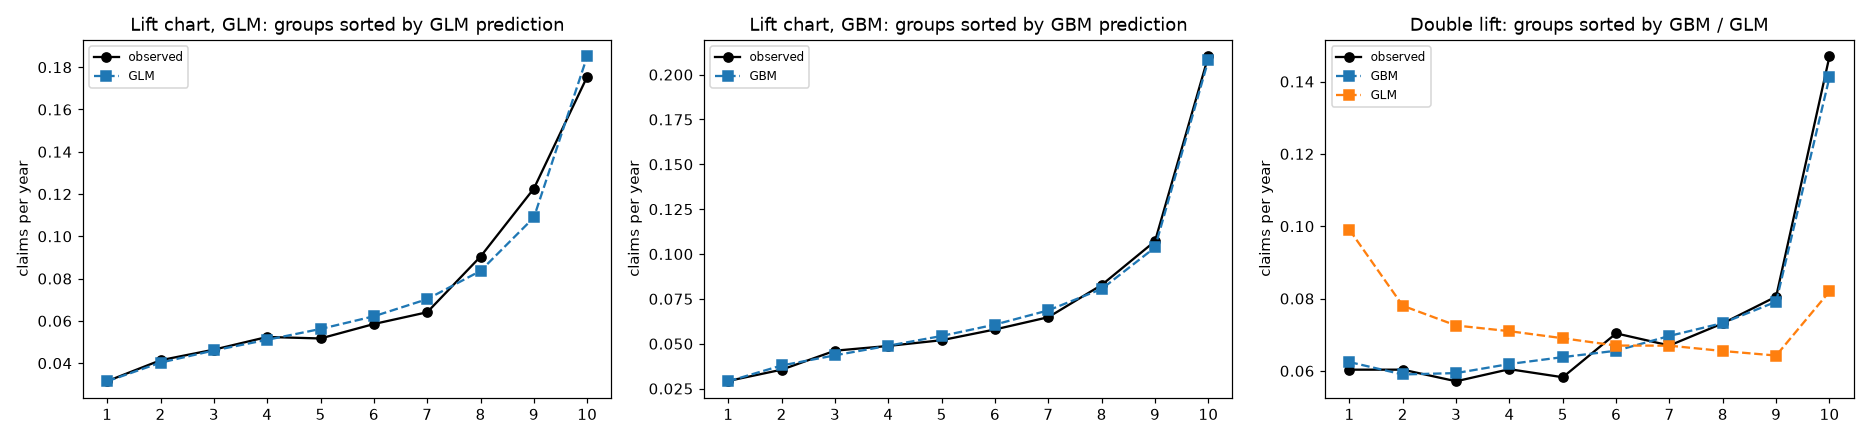
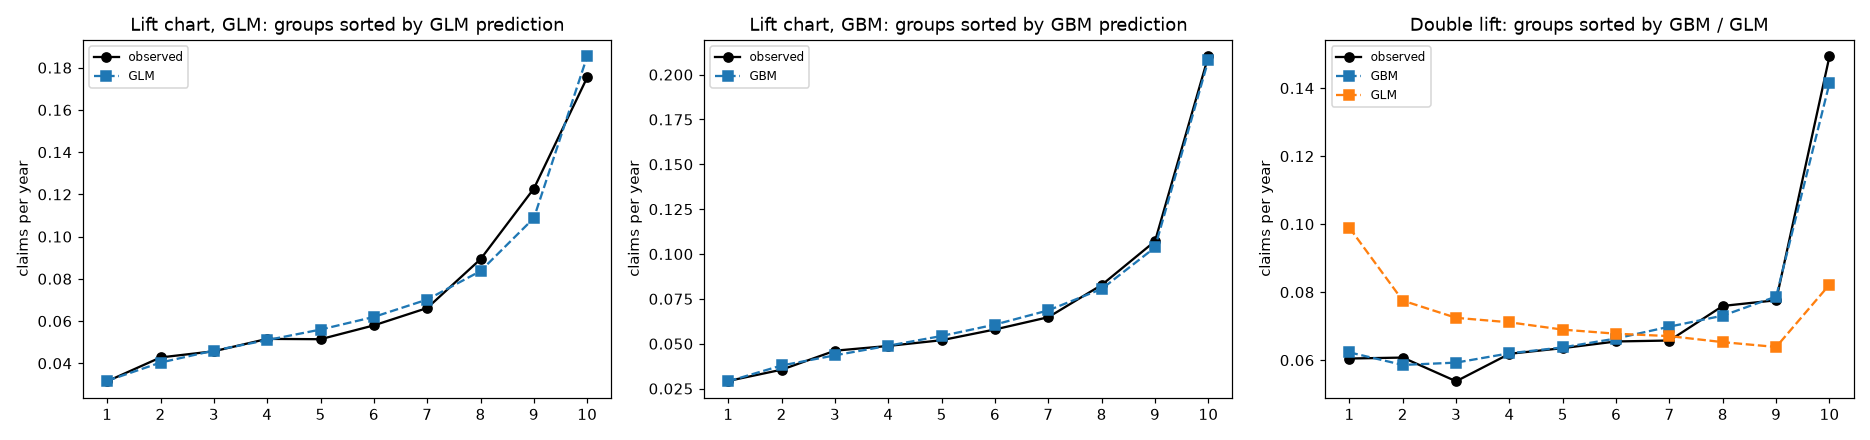
First fix of the README file

diff --git a/README.md b/README.md
@@ -21,7 +21,7 @@ the theory behind each step and summarises the results.
 - **The raw claim counts are wrong for a block of 9,139 policies.** Rebuilding the claim counts from the claims table
   reproduces exactly the counts published by Wüthrich & Merz (2023): 678,007 policies, 26,383 claims.
 - **Frequency: gradient boosting beats the GLM**, and where the two disagree the boosting is right
-  (right panel below). A visible part of the gap is `BonusMalus`, whose effect is not log-linear.
+  (right panel below).
 - **Severity: there is almost nothing to learn.** In cross-validation neither a GLM nor a GBM removes
   more than a fraction of a percent of the deviance of the plain mean: the cost of a claim depends on
   the accident, which the data do not describe.
@@ -35,52 +35,59 @@ number of claims and $Y_1, \dots, Y_N$ their costs. The total cost is $S = \sum_
 pure premium is the expected cost per year:
 
 $$
-\pi(x) = \frac{\mathbb{E}[S \mid x]}{e} = \underbrace{\frac{\mathbb{E}[N \mid x]}{e}}_{\text{frequency } \lambda(x)} \times \underbrace{\mathbb{E}[Y \mid x]}_{\text{severity } \mu(x)} .
+\pi(x) = \frac{\mathbb{E}[S \mid x]}{e} = \frac{\mathbb{E}[\mathbb{E}[S \mid N,x] \mid x]}{e}=\frac{\mathbb{E}[NY \mid x]}{e}=\underbrace{\frac{\mathbb{E}[N \mid x]}{e}}_{\text{frequency } \lambda(x)} \times \underbrace{\mathbb{E}[Y \mid x]}_{\text{severity } \mu(x)} .
 $$
 
 The factorisation holds if, given $x$, the claim costs are identically distributed and independent of
-the number of claims (Wald's identity). It lets us fit two simpler models, on two different datasets:
+the number of claims. It lets us fit two simpler models, on two different datasets:
 the frequency on all policies, the severity on the claims only.
 
 ## Frequency: Poisson with an exposure offset
 
 The number of claims is modelled as $N \sim \text{Poisson}(\lambda(x)\, e)$: a policy observed for half a
-year is expected to have half the claims of the same policy observed for a year. With a log link,
+year is expected to have half the claims of the same policy observed for a year. The Poisson random variable comes as a limit of a Binomial.
+Let $p$ be the probability of an accident occurring. In a given time $e$ the occasions in which accidents can occur scale linearly with $e$, let us say
+they are $M = \eta e$. Then the probability that the total number of claims in a period $e$ are exactly $N$ is:
+
+$$ \binom{M}{N} p^N (1-p)^{M-N} \approx e^{- \lambda} \frac{\lambda^N}{N!}, \text{ with } \lambda = Mp.$$
+
+With a log link,
 
 $$
-\log \mathbb{E}[N \mid x] = \log e + \log \lambda(x), \qquad \log \lambda(x) = \beta_0 + \beta_1 x_1 + \dots
+\log \mathbb{E}[N \mid x] = \log e + \log \lambda(x), \text{ where }\lambda(x) \text{ is estimated with a linear model, i.e.} \log \lambda(x) = \beta_0 + \beta_1 x_1 + \dots + \beta_k x_k.
 $$
 
 The term $\log e$ has no coefficient: it is an **offset**, a known part of the linear predictor.
 
-**Why not model the observed rate $N/e$ directly, with equal weights?** Because a policy observed for
-2 days with one claim has a rate of 180 claims per year. In the Poisson likelihood it counts for what it
-is, one claim in two days: with a single $\lambda$ the estimate is $\hat\lambda = \sum N_i / \sum e_i$,
-and the information a policy carries is proportional to its exposure.
+**Estimating the coefficients $\beta_i$** Coefficients are estimated by maximizing the log-likelihood of the Poisson distribution assuming $\{x^i\}$ observations, which we recall to be
+
+$$ \ell(\lambda, \beta_1, \dots, \beta_k|x^i) = \sum_{i} N_i \log(\mu_i) - \mu_i- \log(N_i !), \text{ with } \mu_i = e_i \lambda_i = e_i \exp(\beta_0 + \beta_1 x_1 ^i + \dots + \beta_k x_k ^i)$$
 
 **The log link makes the tariff multiplicative.** Each coefficient becomes a **relativity**
 $e^{\beta_j}$, the factor by which a characteristic multiplies the frequency with respect to a
-reference level. This is how actuarial tariffs are written.
+reference level. 
 
 **The Poisson GLM is balanced.** With the log link (the canonical link of the Poisson family) the
-maximum-likelihood equations are $X^\top (N - \hat\mu) = 0$; the row of the intercept says that the
-total predicted claims equal the observed total on the training data, exactly. The notebook checks it.
+maximum-likelihood equations (i.e. $\nabla_ \beta \ell =0$) are $X^\top (N - \hat\mu) = 0$; the row of the intercept says that the
+total predicted claims equal the observed total on the training data, exactly. The notebook checks it. We also point out that if $X$ (i.e. the matrix whose columns are the values of the features $x_i$) has 
+full rank, the hessian of the log-likelihood is negative definite, i.e. $\ell$ is strictly concave and it hs a unique stationary point which is a maximum.
+The reason we discard one of the categorical variables after the one-hot encoding is precisely to maintain this property, i.e. to have  unique MLE $\hat{\beta}$. 
 
 **The deviance measures the fit.** For counts, the squared error is a poor measure: the variance grows
 with the mean, and 96% of the policies have no claim. The Poisson deviance
 
 $$
-D = \frac{1}{\sum_i e_i} \sum_i 2 \left[ N_i \log \frac{N_i}{\hat\mu_i} - (N_i - \hat\mu_i) \right], \qquad \hat\mu_i = \hat\lambda(x_i)\, e_i ,
+D = \frac{1}{\sum_i e_i} \sum_i 2 \left[ N_i \log \frac{N_i}{\hat\mu_i} - (N_i - \hat\mu_i) \right], \qquad \hat\mu_i = \hat\lambda(x_i)\, e_i  \quad \text{ where } \quad \hat{\lambda}(x) =  \exp(\hat{\beta_0} + \hat{\beta_1} x_1 ^i + \dots + \hat{\beta_k} x_k ^i)
 $$
 
 is the loss the Poisson model minimises (lower is better). It cannot be zero: most of the variability
 of claim counts is pure chance, which no model can predict. That is why the improvements look small
-(a few percent): they are compared with that randomness.
+(a few percent): they are compared with that randomness. 
 
 ## Gradient boosting
 
 A gradient boosting machine (here LightGBM) adds hundreds of small decision trees, each one fitted to
-correct the errors of the previous ones, minimising the same Poisson loss. Unlike a GLM it finds by
+correct the errors of the previous ones, maximising the same likelihood. Unlike a GLM it finds by
 itself non-linear effects and interactions, and it uses the raw covariates.
 
 The exposure is passed as the starting point of each policy (`init_score`), set to
@@ -97,7 +104,7 @@ Claim costs are positive and skewed, and their spread grows with their mean. The
 has exactly this property, $\operatorname{Var}(Y) = \phi\, \mu^2$ (a constant coefficient of
 variation), and with a log link the severity tariff is multiplicative too.
 
-**Large claims.** The largest 1% of claims carry 38% of the total cost, and the largest is 4 million. A
+**Large claims.** This is one of the crucial aspects of the problem. The largest 1% of claims carry 38% of the total cost, and the largest is 4 million. A
 model fitted on raw amounts would mostly describe a handful of claims. Claims are therefore capped at
 $u = 50{,}000$, the severity model is fitted on the capped amounts, and the cost above the cap is added
 back to every claim as a **loading**:
@@ -108,12 +115,17 @@ L = \frac{\sum_k (Y_k - u)_+}{\sum_k \min(Y_k, u)} \quad \text{(on the training 
 $$
 
 The loading assumes that large claims are proportional to the "normal" severity of each profile: with
-72 claims above the cap, how they depend on 8 covariates cannot be estimated.
+72 claims above the cap, how they depend on 8 covariates cannot be estimated by any model.
 
 **Cross-validation.** With about 21,000 noisy claims, one validation split is not enough to tell
 whether a flexible model helps. The notebook compares the mean, the GLM and a GBM with 5-fold
 cross-validation, measured by $D^2 = 1 - D_{\text{model}} / D_{\text{mean}}$, the share of the Gamma
-deviance of the mean that a model removes.
+deviance of the mean that a model removes. The deviance $D$ can be expressed in terms of the log likelihood as
+
+$$ D = 2 ( \max_{\mu} \ell(\mu) - \ell (\hat{\beta})),$$
+
+i.e. twice th difference between the maximum possible value of $\ell$ (with $\mu_i = N_i$) and the value it attains 
+considering the maximum likelihood estimator of the coefficients $\hat{\beta}$. 
 
 ## Pure premium, balance and how the models are compared
 
@@ -132,8 +144,7 @@ On the test set the premiums are compared with these tools:
   value (lift) or by the ratio of two models' predictions (double lift), and compare observed and
   predicted values in each group. In a double lift chart, where the two models disagree, the one whose
   line follows the observed one is right.
-- The Tweedie deviance with power $p = 1.9$ (the distribution of a Poisson sum of Gamma claims, as in
-  the scikit-learn example) is also reported for the pure premium.
+
 
 ## Why the train/test split is grouped
 
@@ -238,6 +249,4 @@ This project was developed with the help of an AI assistant (Claude).
 
 - M. V. Wüthrich, M. Merz (2023). *Statistical Foundations of Actuarial Learning and its Applications*.
   Springer (open access). Section 13.1: the freMTPL2 data and their cleaning.
-- scikit-learn example: *Tweedie regression on insurance claims* (same data).
-- M. Goldburd, A. Khare, D. Tevet, D. Guller. *Generalized Linear Models for Insurance Rating*.
-  CAS Monograph No. 5.
+
